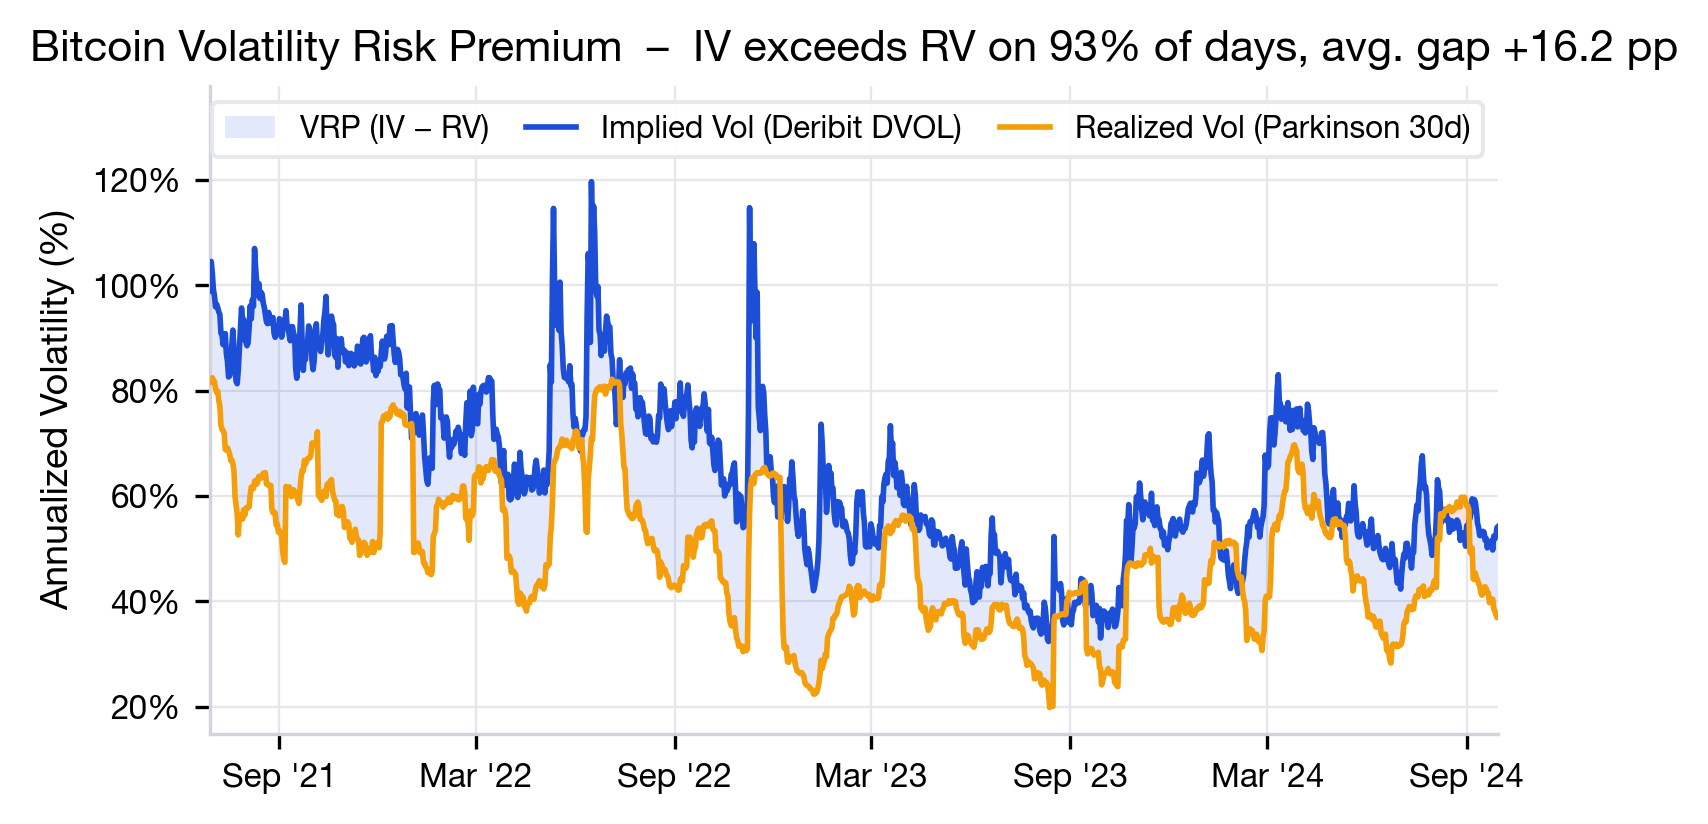
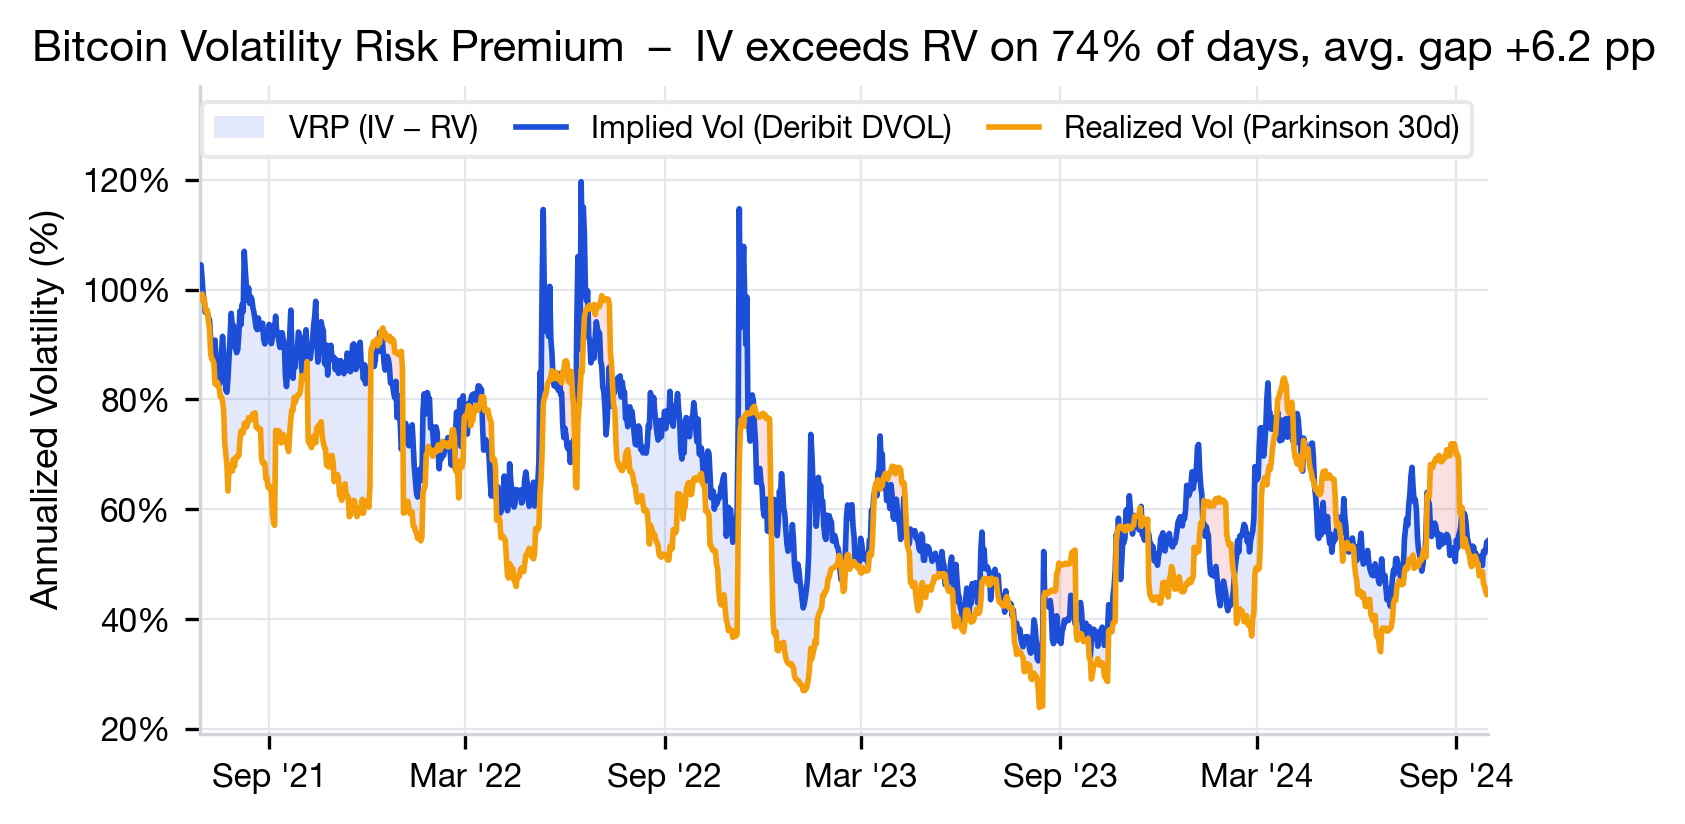
Fix VRP annualization (sqrt 365), add monthly Sharpe and thesis errata
- VRP figure script annualized 30d Parkinson RV with sqrt(252); BTC
  trades 365 days/year and DVOL is on a 365-day basis. Corrected VRP:
  IV > RV on 74% of days (not 93%), mean spread +6.2 vol pts (not +16.2)
- Regenerate docs/images/vrp_spread.png and update the README TL;DR
- Report monthly mark-to-market Sharpe next to the per-trade Sharpe
- Add an Errata section listing the corrections to the defended thesis

diff --git a/scripts/generate_outreach_paper_figures.py b/scripts/generate_outreach_paper_figures.py
@@ -97,7 +97,8 @@ def fig1_vrp():
     # Parkinson 30d annualized (%)
     ohlc["lnhl2"] = (np.log(ohlc["high"] / ohlc["low"])) ** 2
     park_var = ohlc["lnhl2"].rolling(30).mean() / (4 * np.log(2))
-    ohlc["park_rv30"] = np.sqrt(park_var * 252) * 100.0
+    # BTC trades 365 days/year: annualize on the same calendar basis as DVOL
+    ohlc["park_rv30"] = np.sqrt(park_var * 365) * 100.0
 
     df = ohlc[["date", "park_rv30"]].merge(
         dvol[["date", "dvol_close"]], on="date", how="inner"

diff --git a/README.md b/README.md
@@ -22,7 +22,7 @@
 
 ## 📌 TL;DR
 
-Bitcoin options are structurally expensive: implied volatility (Deribit DVOL) exceeded 30-day realized volatility on **93% of trading days** (Jun 2021 – Sep 2024), with an average spread of **+16.2 vol points**, roughly 4× the equity-index VRP.
+Bitcoin options are structurally expensive: implied volatility (Deribit DVOL) exceeded 30-day realized volatility (Parkinson) on **74% of trading days** (Jun 2021 – Sep 2024), with an average spread of **+6.2 vol points** (+7.4 against the realized vol of the following 30 days), roughly double the 3–4 points historically seen on the S&P 500.
 
 This project harvests that premium with the **simplest strategy that survived a systematic elimination process**: sell the highest-vega delta-neutral option each day, hedge with quarterly futures, exit at 50% premium capture or DTE ≤ 5.
 
@@ -37,12 +37,13 @@ This project harvests that premium with the **simplest strategy that survived a 
 | Period           | Jun 2021 – Sep 2023 | Oct 2023 – Sep 2024 | Jan 2010 – Dec 2023  |
 | Trades           | 35                  | 10                  | 147                  |
 | Win rate         | 65.7%               | 60.0%               | 66.0%                |
-| **Sharpe**       | **1.75**            | **1.52**            | 0.79                 |
+| **Sharpe** (per trade, annualized) | **1.75** | **1.52** | 0.79          |
+| Sharpe (monthly MTM) | 1.29              | 1.16                | 0.71                 |
 | Return (moderate)| +19.3%              | +7.0%               | +9.1%                |
 | Max DD (MTM)     | −10.3%              | −2.3%               | −2.3%                |
 | t-test (p, 1-sided) | 0.007            | 0.091               | n/a                  |
 
-> 💪 The in-sample period **includes the 2022 bear market** (BTC −55% in a single quarter). Bootstrap 95% CI for IS Sharpe: [0.72, 2.73], P(Sharpe > 1) = 93%. Sharpe is invariant across all sizing configurations.
+> 💪 The in-sample period **includes the 2022 bear market** (BTC −55% in a single quarter). Bootstrap 95% CI for IS Sharpe: [0.72, 2.73], P(Sharpe > 1) = 93%. The per-trade Sharpe is invariant across all sizing configurations. The monthly mark-to-market Sharpe also captures the swings while a position is open, so it is the more conservative figure.
 
 <div align="center">
 <img src="docs/images/equity_curve.png" width="850" alt="Equity curve"/>
@@ -186,6 +187,14 @@ Raw option data (~5 GB) is **not** included:
 ## 🎓 Academic Context
 
 This repository accompanies the MSc Finance thesis *"Il Volatility Risk Premium su Bitcoin: origini strutturali e strategie di raccolta tramite opzioni delta-neutrali"* (Università Cattolica del Sacro Cuore, Milan). The full LaTeX source lives in [`thesis/`](thesis/); every number in the thesis is reproducible from the code in this repo (the raw data must be downloaded separately, see [Data](#-data)).
+
+## 📝 Errata
+
+Errors found in the thesis after submission. The code and the figures in this README are corrected; the thesis files in [`thesis/`](thesis/) are left as defended.
+
+- **VRP size (Ch. 1, 3, 10 and Figure 1.1).** The 30-day Parkinson realized vol was annualized with √252 instead of √365. Bitcoin trades every day of the year and DVOL is quoted on a 365-day basis, so realized vol was understated by about 17%. Corrected: IV > RV on **74%** of days (not 93%), average spread **+6.2** vol points (not +16.2), about twice the S&P 500 premium rather than four times. The premium is smaller but still clearly positive. Backtest results, Sharpe ratios, drawdowns and the regime correlations in Ch. 4 do not use this number and are unaffected (a constant scale factor does not change a correlation).
+- **Out-of-sample win rate (Tables in Ch. 5 and 7).** 60.0% (6 winning trades out of 10), not 70.0%.
+- **Sharpe ratio.** The thesis reports only the per-trade Sharpe (1.75 IS). On monthly mark-to-market returns it is 1.29 IS and 1.16 OOS; both are now shown above.
 
 ## ⚠ Disclaimer
 
